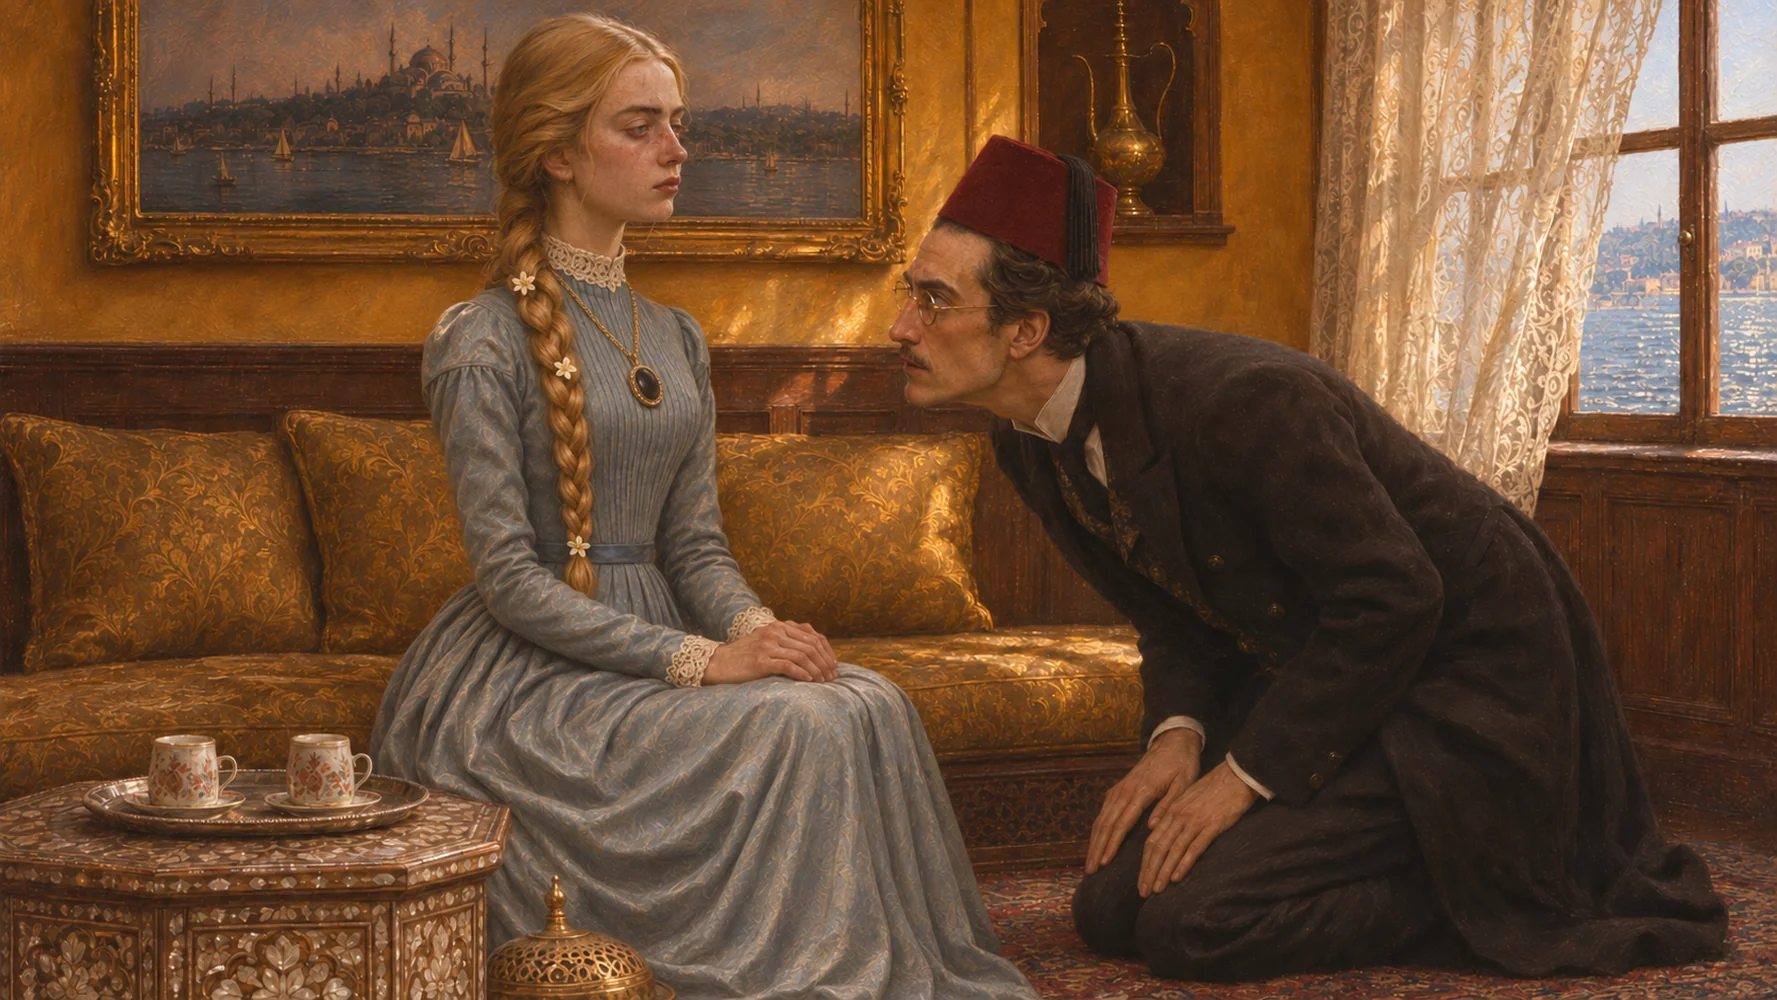
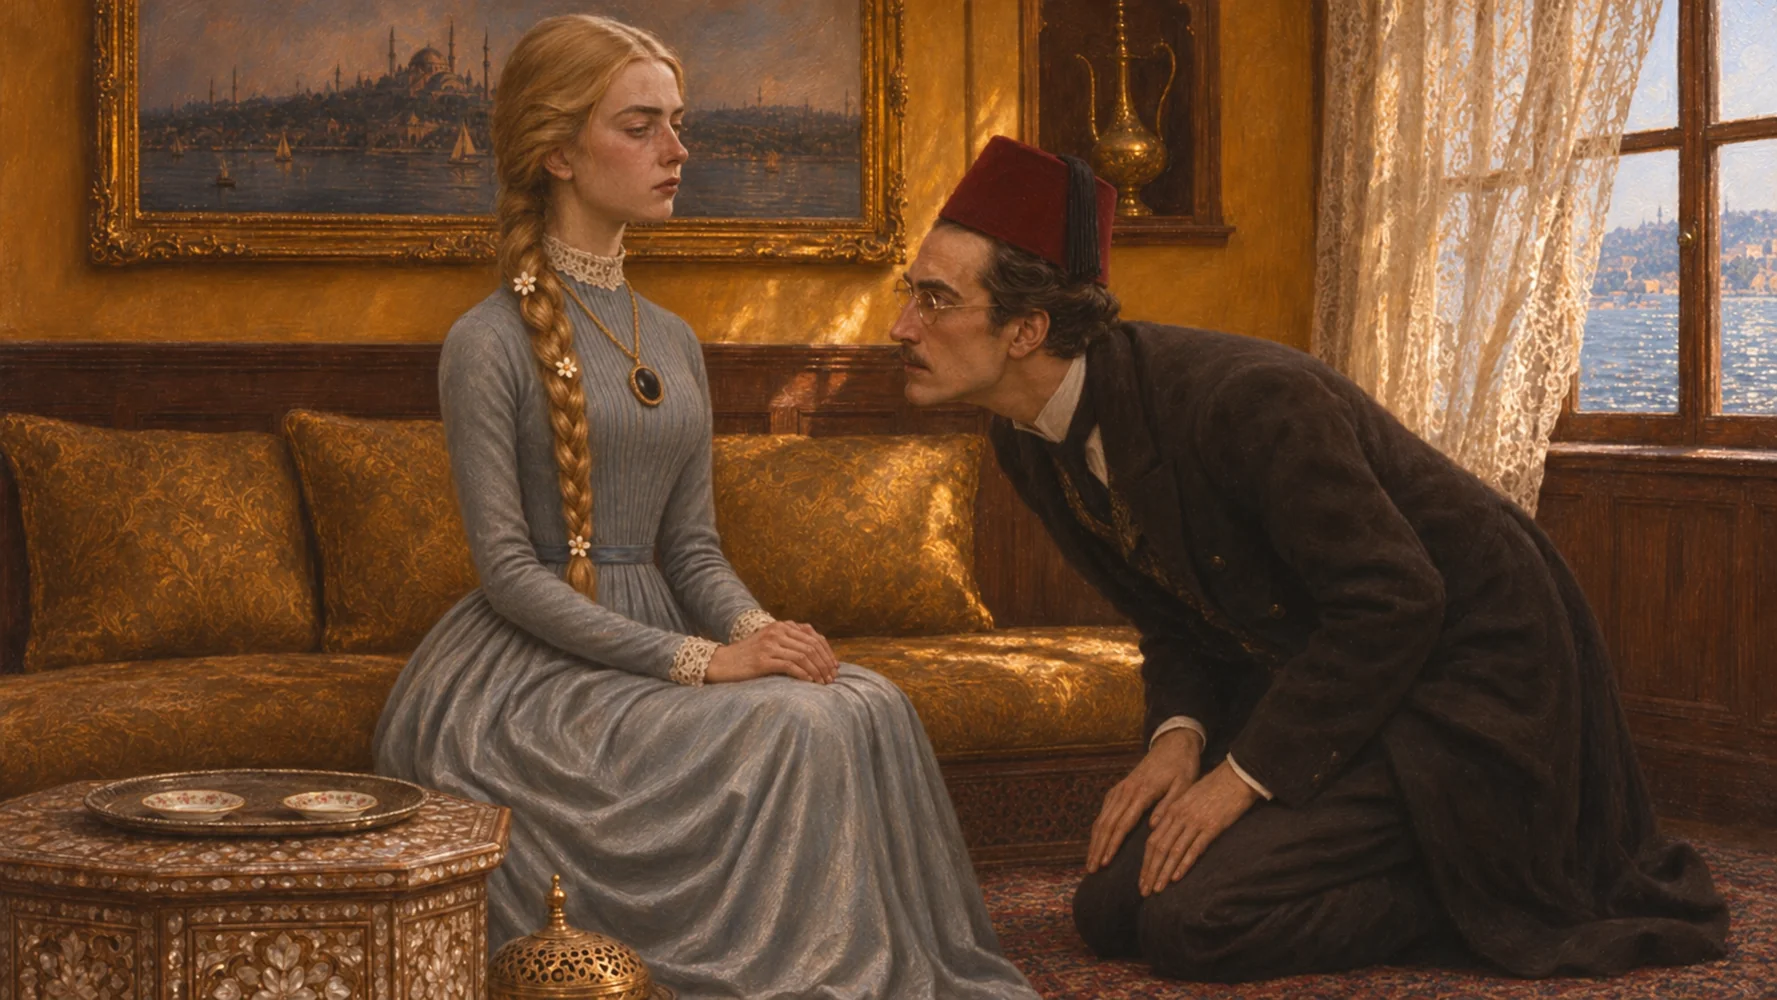
Oyun Surum 110: mavi elbise omuzlari

diff --git a/oyun/index.html b/oyun/index.html
@@ -17,7 +17,7 @@
 <link rel="preconnect" href="https://fonts.googleapis.com">
 <link rel="preconnect" href="https://fonts.gstatic.com" crossorigin>
 <link href="https://fonts.googleapis.com/css2?family=Cormorant+Garamond:ital,wght@0,500;0,600;0,700;1,500&family=EB+Garamond:ital,wght@0,400;0,500;1,400&display=swap" rel="stylesheet">
-<link rel="stylesheet" href="oyun.css?v=109">
+<link rel="stylesheet" href="oyun.css?v=110">
 <div id="cerceve">
   <div id="sahne">
     <img id="arkaplan" alt="">
@@ -83,33 +83,33 @@
 </div>
 <div id="dondur-uyarisi"><div>Lütfen telefonunuzu yan çevirin.</div></div>
 
-<script charset="utf-8" src="veri/oyun_verisi.js?v=109"></script>
-<script charset="utf-8" src="veri/gorseller.js?v=109"></script>
-<script charset="utf-8" src="veri/bolum1.js?v=109"></script>
-<script charset="utf-8" src="veri/bolum2.js?v=109"></script>
-<script charset="utf-8" src="veri/bolum3.js?v=109"></script>
-<script charset="utf-8" src="veri/bolum4.js?v=109"></script>
-<script charset="utf-8" src="veri/bolum5.js?v=109"></script>
-<script charset="utf-8" src="veri/bolum6.js?v=109"></script>
-<script charset="utf-8" src="veri/bolum7.js?v=109"></script>
-<script charset="utf-8" src="veri/plan_konak.js?v=109"></script>
-<script charset="utf-8" src="veri/plan_ada.js?v=109"></script>
-<script charset="utf-8" src="veri/pilot1.js?v=109"></script>
-<script charset="utf-8" src="veri/pilot2.js?v=109"></script>
-<script charset="utf-8" src="veri/pilot3.js?v=109"></script>
-<script charset="utf-8" src="veri/pilot4.js?v=109"></script>
-<script charset="utf-8" src="veri/pilot5.js?v=109"></script>
-<script charset="utf-8" src="veri/pilot6.js?v=109"></script>
-<script charset="utf-8" src="veri/pilot7.js?v=109"></script>
-<script charset="utf-8" src="veri/pilot8.js?v=109"></script>
-<script charset="utf-8" src="veri/pilot9.js?v=109"></script>
-<script charset="utf-8" src="veri/pilot10.js?v=109"></script>
-<script charset="utf-8" src="veri/pilot11.js?v=109"></script>
-<script charset="utf-8" src="veri/pilot12.js?v=109"></script>
-<script charset="utf-8" src="veri/pilot13.js?v=109"></script>
-<script charset="utf-8" src="veri/pilot14.js?v=109"></script>
-<script charset="utf-8" src="veri/pilot15.js?v=109"></script>
-<script charset="utf-8" src="veri/pilot16.js?v=109"></script>
-<script charset="utf-8" src="veri/saydam.js?v=109"></script>
-<script charset="utf-8" src="ses.js?v=109"></script>
-<script charset="utf-8" src="motor.js?v=109"></script>
+<script charset="utf-8" src="veri/oyun_verisi.js?v=110"></script>
+<script charset="utf-8" src="veri/gorseller.js?v=110"></script>
+<script charset="utf-8" src="veri/bolum1.js?v=110"></script>
+<script charset="utf-8" src="veri/bolum2.js?v=110"></script>
+<script charset="utf-8" src="veri/bolum3.js?v=110"></script>
+<script charset="utf-8" src="veri/bolum4.js?v=110"></script>
+<script charset="utf-8" src="veri/bolum5.js?v=110"></script>
+<script charset="utf-8" src="veri/bolum6.js?v=110"></script>
+<script charset="utf-8" src="veri/bolum7.js?v=110"></script>
+<script charset="utf-8" src="veri/plan_konak.js?v=110"></script>
+<script charset="utf-8" src="veri/plan_ada.js?v=110"></script>
+<script charset="utf-8" src="veri/pilot1.js?v=110"></script>
+<script charset="utf-8" src="veri/pilot2.js?v=110"></script>
+<script charset="utf-8" src="veri/pilot3.js?v=110"></script>
+<script charset="utf-8" src="veri/pilot4.js?v=110"></script>
+<script charset="utf-8" src="veri/pilot5.js?v=110"></script>
+<script charset="utf-8" src="veri/pilot6.js?v=110"></script>
+<script charset="utf-8" src="veri/pilot7.js?v=110"></script>
+<script charset="utf-8" src="veri/pilot8.js?v=110"></script>
+<script charset="utf-8" src="veri/pilot9.js?v=110"></script>
+<script charset="utf-8" src="veri/pilot10.js?v=110"></script>
+<script charset="utf-8" src="veri/pilot11.js?v=110"></script>
+<script charset="utf-8" src="veri/pilot12.js?v=110"></script>
+<script charset="utf-8" src="veri/pilot13.js?v=110"></script>
+<script charset="utf-8" src="veri/pilot14.js?v=110"></script>
+<script charset="utf-8" src="veri/pilot15.js?v=110"></script>
+<script charset="utf-8" src="veri/pilot16.js?v=110"></script>
+<script charset="utf-8" src="veri/saydam.js?v=110"></script>
+<script charset="utf-8" src="ses.js?v=110"></script>
+<script charset="utf-8" src="motor.js?v=110"></script>

diff --git a/oyun/veri/gorseller.js b/oyun/veri/gorseller.js
@@ -628,7 +628,7 @@
  "an_diz_esik_nisan_gosterisli": "gorsel/odul/g_odul_an_diz_esik_nisan_gosterisli.webp?v=1795071423",
  "an_diz_esik_nisan_yadigar": "gorsel/odul/g_odul_an_diz_esik_nisan_yadigar.webp?v=1795071423",
  "an_diz_nisan_gosterisli": "gorsel/odul/g_odul_an_diz_nisan_gosterisli.webp?v=1795044846",
- "an_diz_nisan_yadigar": "gorsel/odul/g_odul_an_diz_nisan_yadigar.webp?v=1795044846",
+ "an_diz_nisan_yadigar": "gorsel/odul/g_odul_an_diz_nisan_yadigar.webp?v=1795273460",
  "an_duvar": "gorsel/odul/g_odul_an_duvar.webp?v=1795256873",
  "an_duvar_kapi": "gorsel/odul/g_odul_an_duvar_kapi.webp?v=1795011321",
  "an_duvar_nisan_gosterisli": "gorsel/odul/g_odul_an_duvar_nisan_gosterisli.webp?v=1794814234",
@@ -656,8 +656,8 @@
  "an_gerdanlik": "gorsel/odul/g_odul_an_gerdanlik.webp?v=1795176250",
  "an_gerdanlik_kenan": "gorsel/odul/g_odul_an_gerdanlik_kenan.webp?v=1795256874",
  "an_gerdanlik_kenan_nisan_gosterisli": "gorsel/odul/g_odul_an_gerdanlik_kenan_nisan_gosterisli.webp?v=1795050515",
- "an_gerdanlik_kenan_nisan_yadigar": "gorsel/odul/g_odul_an_gerdanlik_kenan_nisan_yadigar.webp?v=1795050516",
- "an_gerdanlik_kenan_nisan_yadigar_sakli": "gorsel/odul/g_odul_an_gerdanlik_kenan_nisan_yadigar_sakli.webp?v=1795265378",
+ "an_gerdanlik_kenan_nisan_yadigar": "gorsel/odul/g_odul_an_gerdanlik_kenan_nisan_yadigar.webp?v=1795273460",
+ "an_gerdanlik_kenan_nisan_yadigar_sakli": "gorsel/odul/g_odul_an_gerdanlik_kenan_nisan_yadigar_sakli.webp?v=1795273460",
  "an_gerdanlik_kenan_sakli": "gorsel/odul/g_odul_an_gerdanlik_kenan_sakli.webp?v=1795256875",
  "an_gerdanlik_kendi": "gorsel/odul/g_odul_an_gerdanlik_kendi.webp?v=1795026514",
  "an_gerdanlik_kendi_nisan_gosterisli": "gorsel/odul/g_odul_an_gerdanlik_kendi_nisan_gosterisli.webp?v=1795027417",
@@ -769,7 +769,7 @@
  "an_merdiven": "gorsel/odul/g_odul_an_merdiven.webp?v=1795041664",
  "an_merdiven_nisan_gosterisli": "gorsel/odul/g_odul_an_merdiven_nisan_gosterisli.webp?v=1795042136",
  "an_merdiven_nisan_gosterisli_sakli": "gorsel/odul/g_odul_an_merdiven_nisan_gosterisli_sakli.webp?v=1795022751",
- "an_merdiven_nisan_yadigar": "gorsel/odul/g_odul_an_merdiven_nisan_yadigar.webp?v=1795042137",
+ "an_merdiven_nisan_yadigar": "gorsel/odul/g_odul_an_merdiven_nisan_yadigar.webp?v=1795273461",
  "an_merdiven_nisan_yadigar_sakli": "gorsel/odul/g_odul_an_merdiven_nisan_yadigar_sakli.webp?v=1795022751",
  "an_merdiven_ret": "gorsel/odul/g_odul_an_merdiven_ret.webp?v=1795032390",
  "an_merdiven_ret_nisan_gosterisli": "gorsel/odul/g_odul_an_merdiven_ret_nisan_gosterisli.webp?v=1795032880",
